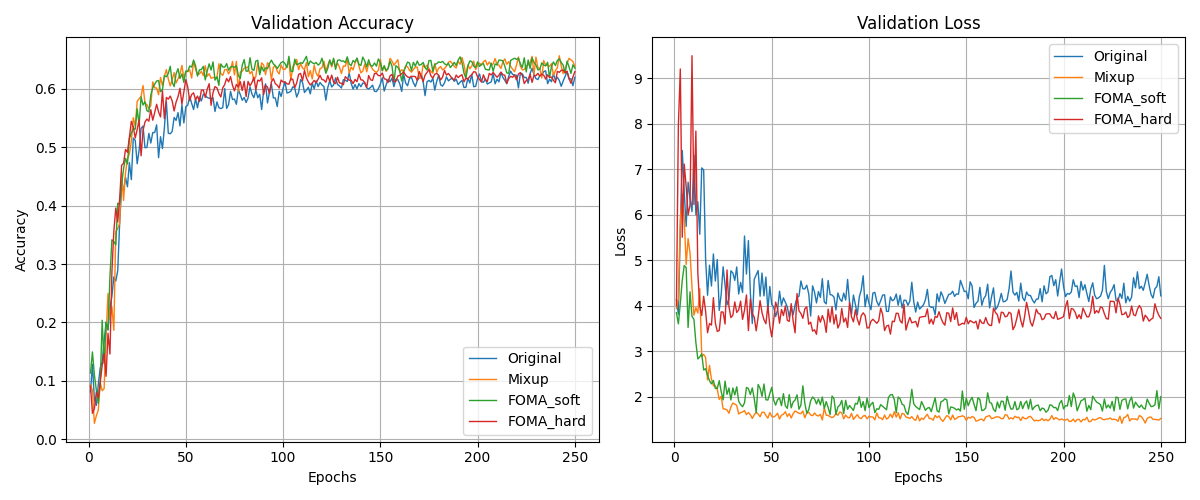
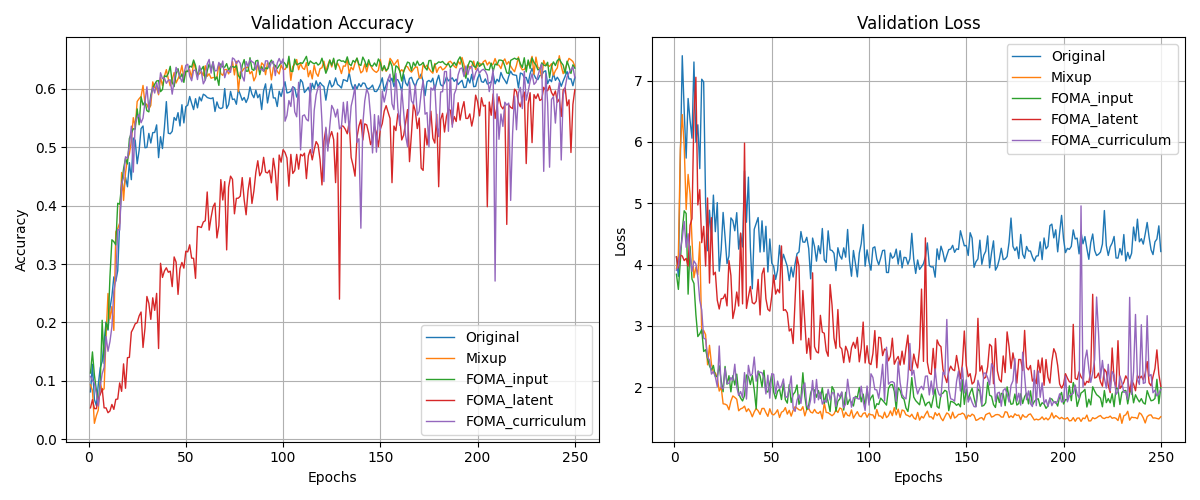
FOMA_curriculum

diff --git a/src/models/wide_resnet.py b/src/models/wide_resnet.py
@@ -10,6 +10,61 @@ from sklearn.neighbors import NearestNeighbors
 from foma import foma
 import sys
 
+class FOMALayer(nn.Module):
+    def __init__(self, feature_dim, num_classes, alpha=1.0, rho=0.9, small_singular=True):
+        super(FOMALayer, self).__init__()
+        self.feature_dim = feature_dim
+        self.num_classes = num_classes
+        self.alpha = alpha
+        self.rho = rho
+        self.small_singular = small_singular
+
+    def forward(self, X, Y, apply_foma=True):
+        """
+        X: 中間特徴 [B, D] （flattenされた中間表現）
+        Y: ラベル [B] または [B, num_classes]
+        apply_foma: FOMA適用フラグ
+        """
+        if not apply_foma:
+            return X, Y
+
+        B = X.shape[0]
+
+        # one-hot変換
+        if Y.ndim == 1:
+            Y_onehot = F.one_hot(Y, num_classes=self.num_classes).float()
+        else:
+            Y_onehot = Y.float()
+
+        # Z = [X | Y]
+        Z = torch.cat([X, Y_onehot], dim=1)
+
+        # SVD
+        U, s, Vt = torch.linalg.svd(Z, full_matrices=False)
+
+        # ラムダ決定
+        lam = torch.distributions.beta.Beta(self.alpha, self.alpha).sample().to(X.device)
+        cumperc = torch.cumsum(s, dim=0) / torch.sum(s)
+        condition = cumperc > self.rho if self.small_singular else cumperc < self.rho
+        lam_mult = torch.where(condition, lam, torch.tensor(1.0, device=s.device))
+        s_scaled = s * lam_mult
+
+        # 再構成
+        Z_scaled = (U @ torch.diag(s_scaled) @ Vt)
+        X_scaled = Z_scaled[:, :X.shape[1]]
+        Y_scaled = Z_scaled[:, X.shape[1]:]
+
+        # ラベルをソフトに正規化
+        Y_scaled = torch.clamp(Y_scaled, min=0)
+        sum_per_sample = Y_scaled.sum(dim=1, keepdim=True)
+        normalized_labels = torch.where(
+            sum_per_sample == 0,
+            torch.ones_like(Y_scaled) / self.num_classes,
+            Y_scaled / sum_per_sample
+        )
+
+        return X_scaled, normalized_labels
+
 def conv3x3(in_planes, out_planes, stride=1):
     return nn.Conv2d(in_planes, out_planes, kernel_size=3, stride=stride, padding=1, bias=True)
 
@@ -56,6 +111,8 @@ class Wide_ResNet(nn.Module):
         print('| Wide-Resnet %dx%d' %(depth, k))
         nStages = [16, 16*k, 32*k, 64*k]
 
+        self.foma_layer = FOMALayer(feature_dim=512, num_classes=num_classes)
+
         self.conv1 = conv3x3(3,nStages[0])
         self.layer1 = self._wide_layer(wide_basic, nStages[1], n, dropout_rate, stride=1)
         self.layer2 = self._wide_layer(wide_basic, nStages[2], n, dropout_rate, stride=2)
@@ -73,31 +130,73 @@ class Wide_ResNet(nn.Module):
 
         return nn.Sequential(*layers)
 
-    def forward(self, x, labels, device, augment, k=10, aug_ok=False, mixup_hidden=False, num_classes=10):
+    def forward(self, x, labels, device, augment, k=10, aug_ok=False, mixup_hidden=False, num_classes=100):
         if mixup_hidden == False:
-            out = self.conv1(x)
-            out = self.layer1(out)
-            out = self.layer2(out)
-            out = self.layer3(out)
-            out = F.relu(self.bn1(out))
-            out = F.avg_pool2d(out, 8)
-            # out = F.avg_pool2d(out, out.size()[2])
-            out = out.view(out.size(0), -1)
-
             if aug_ok:
-                features = out
-                if augment == "FOMA_latent":
-                    augmented_data, augmented_labels = foma(features, labels, num_classes, alpha=1.0, rho=0.9)
-                # elif augment == "Mixup-Original&PCA":
-                #     augmented_data = local_pca_perturbation(features, device, k, perturb_prob=0.5)
-                # else:
-                #     augmented_data = local_pca_perturbation(features, device, k, perturb_prob=1.0)
-                out = self.linear(augmented_data)
-                return out, augmented_labels
-                
+                # layer_foma = random.randint(0, 4)
+                # out = x
+
+                # if layer_foma == 0:
+                #     out, y_soft = foma(out, labels, num_classes, alpha=1.0, rho=0.9)
+
+                # # conv1 → layer1 → (maybe foma) → layer2 → (maybe foma) → layer3 → ... 
+                # out = self.conv1(out)
+                # out = self.layer1(out)   # ← You must pass through layer1 here.
+                # if layer_foma == 1:
+                #     out, y_soft = foma(out, labels, num_classes, alpha=1.0, rho=0.9)
+
+                # out = self.layer2(out)
+                # if layer_foma == 2:
+                #     out, y_soft = foma(out, labels, num_classes, alpha=1.0, rho=0.9)
+
+                # out = self.layer3(out)
+                # if layer_foma == 3:
+                #     out, y_soft = foma(out, labels, num_classes, alpha=1.0, rho=0.9)
+
+                # out = F.relu(self.bn1(out))
+                # out = F.avg_pool2d(out, 8)
+                # out = out.view(out.size(0), -1)
+                # if layer_foma == 4:
+                #     out, y_soft = foma(out, labels, num_classes, alpha=1.0, rho=0.9)
+
+                # out = self.linear(out)
+                # return out, y_soft
+
+                out = self.conv1(x)
+                out = self.layer1(out)
+                out = self.layer2(out)
+                out = self.layer3(out)
+                out = F.relu(self.bn1(out))
+                out = F.avg_pool2d(out, 8)
+                out = out.view(out.size(0), -1)
+                if aug_ok:
+                    if augment == "FOMA_latent" or augment == "FOMA_curriculum":
+                        out, y_soft = foma(out, labels, num_classes, alpha=1.0, rho=0.9)
+                    out = self.linear(out)
+                    return out, y_soft
+
+                else:
+                    out = self.linear(out)
+                    return out
+
+
             else:
-                out = self.linear(out)
-                return out
+                out = self.conv1(x)
+                out = self.layer1(out)
+                out = self.layer2(out)
+                out = self.layer3(out)
+                out = F.relu(self.bn1(out))
+                out = F.avg_pool2d(out, 8)
+                out = out.view(out.size(0), -1)
+                if aug_ok:
+                    if augment == "FOMA_latent":
+                        out, y_soft = foma(out, labels, num_classes, alpha=1.0, rho=0.9)
+                    out = self.linear(out)
+                    return out, y_soft
+
+                else:
+                    out = self.linear(out)
+                    return out
         
         else:
             mixup_alpha = 0.1

diff --git a/train2.py b/train2.py
@@ -106,8 +106,11 @@ def main():
             # "PCA",
 
             # "FOMA",
-            "FOMA_hard",
+            # "FOMA_hard",
             # "FOMA_latent",
+            # "FOMA_latent_random",
+            "FOMA_curriculum"
+
             # "FOMA_samebatch"
         }
 
@@ -175,6 +178,15 @@ def train(model, train_loader, criterion, optimizer, device, augment, num_classe
             preds = model(images, labels, device, augment, aug_ok)
             loss  = criterion(preds, labels)
         
+        elif augment == "FOMA_curriculum":
+            if epochs < 100:
+                images, soft_labels = foma(images, labels, num_classes, alpha=1.0, rho=0.9)
+                preds = model(images, labels, device, augment, aug_ok, num_classes=num_classes)
+                loss  = criterion(preds, soft_labels)
+            else:
+                preds, soft_labels = model(images, labels, device, augment, aug_ok=True, num_classes=num_classes)
+                loss = criterion(preds, soft_labels)
+        
         elif augment == "FOMA":
             images, soft_labels = foma(images, labels, num_classes, alpha=1.0, rho=0.9)
             preds = model(images, labels, device, augment, aug_ok, num_classes=num_classes)
@@ -185,9 +197,9 @@ def train(model, train_loader, criterion, optimizer, device, augment, num_classe
             preds = model(images, labels, device, augment, aug_ok, num_classes=num_classes)
             loss  = criterion(preds, hard_labels)
          
-        elif augment == "FOMA_latent":
-            preds, labels = model(images, labels, device, augment, aug_ok=True, num_classes=num_classes)
-            loss = criterion(preds, labels)
+        elif augment == "FOMA_latent" or augment == "FOMA_latent_random":
+            preds, soft_labels = model(images, labels, device, augment, aug_ok=True, num_classes=num_classes)
+            loss = criterion(preds, soft_labels)
 
         elif augment == "Mixup":
             images, y_a, y_b, lam = mixup_data(images, labels, 1.0, device)

diff --git a/result.py b/result.py
@@ -5,7 +5,7 @@ import matplotlib.pyplot as plt
 
 def main():
     iteration     = 1
-    data_type     = "cifar10"
+    data_type     = "cifar100"
     epochs        = 250
     model_type    = "wide_resnet_28_10"
     augmentations = [
@@ -19,8 +19,11 @@ def main():
         # "Mixup-PCA-Comulative",
 
         "FOMA",
-        "FOMA_hard",
-        # "FOMA_latent"
+        # "FOMA_hard",
+        "FOMA_latent",
+        "FOMA_curriculum",
+
+        # "FOMA_latent_random"
     ]
     
     ### Plot accuracy & loss ###
@@ -60,7 +63,7 @@ def plot_comparison_graph(model_type, augmentations, data_type, epoch, iteration
         epochs = range(1, len(val_acc) + 1)
 
         if augment == "FOMA":
-            augment = "FOMA_soft"
+            augment = "FOMA_input"
         plt.plot(epochs, val_acc, linestyle='solid', linewidth=1, label=f'{augment}')
         
     plt.title('Validation Accuracy')
@@ -86,7 +89,7 @@ def plot_comparison_graph(model_type, augmentations, data_type, epoch, iteration
         epochs = range(1, len(val_loss) + 1)
 
         if augment == "FOMA":
-            augment = "FOMA_soft"
+            augment = "FOMA_input"
         plt.plot(epochs, val_loss, linestyle='solid', linewidth=1, label=f'{augment}')
         
     plt.title('Validation Loss')

diff --git a/foma.py b/foma.py
@@ -23,7 +23,6 @@ def foma(X, Y, num_classes, alpha, rho, small_singular=True, lam=None):
 
     # SVD
     U, s, Vt = torch.linalg.svd(Z, full_matrices=False)
-    # U, s, Vt = torch.linalg.svd(X_flat, full_matrices=False)
 
     # Lambda
     if lam is None:
@@ -43,14 +42,11 @@ def foma(X, Y, num_classes, alpha, rho, small_singular=True, lam=None):
     # Split back to X and Y
     X_flat_scaled = Z_scaled[:, :X_flat.shape[1]]
     Y_onehot_scaled = Z_scaled[:, X_flat.shape[1]:]
-    # X_flat_scaled = U @ torch.diag(s_scaled) @ Vt
 
     # Reshape X to original image shape
     X_scaled = X_flat_scaled.view_as(X)
 
     # Optionally: Convert one-hot back to class labels (argmax)
-    # Y_scaled = torch.argmax(Y_onehot_scaled, dim=1)
-    
     Y_onehot_scaled = torch.clamp(Y_onehot_scaled, min=0)
     
     # 各サンプルごとに合計を計算
